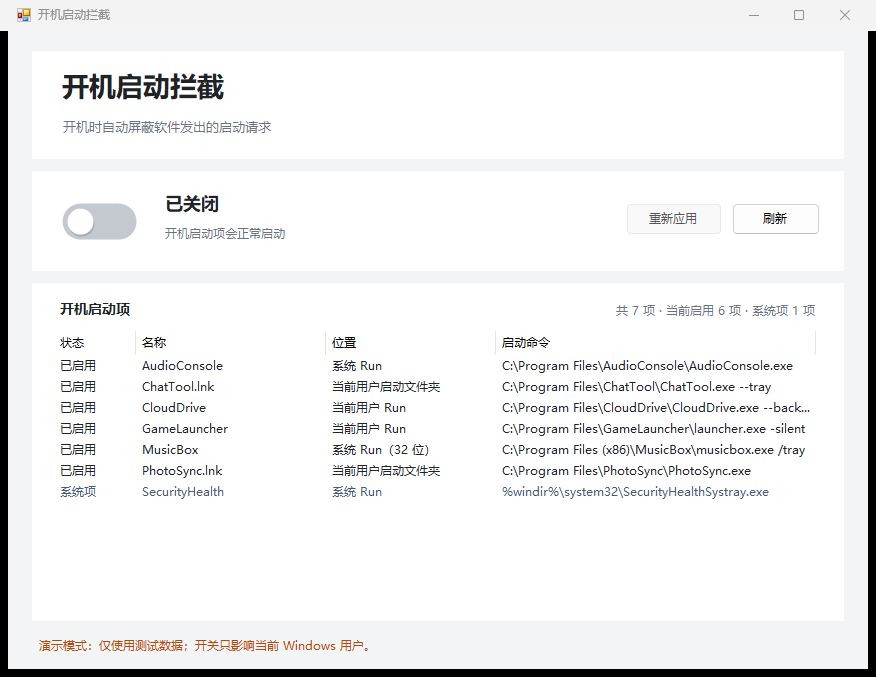
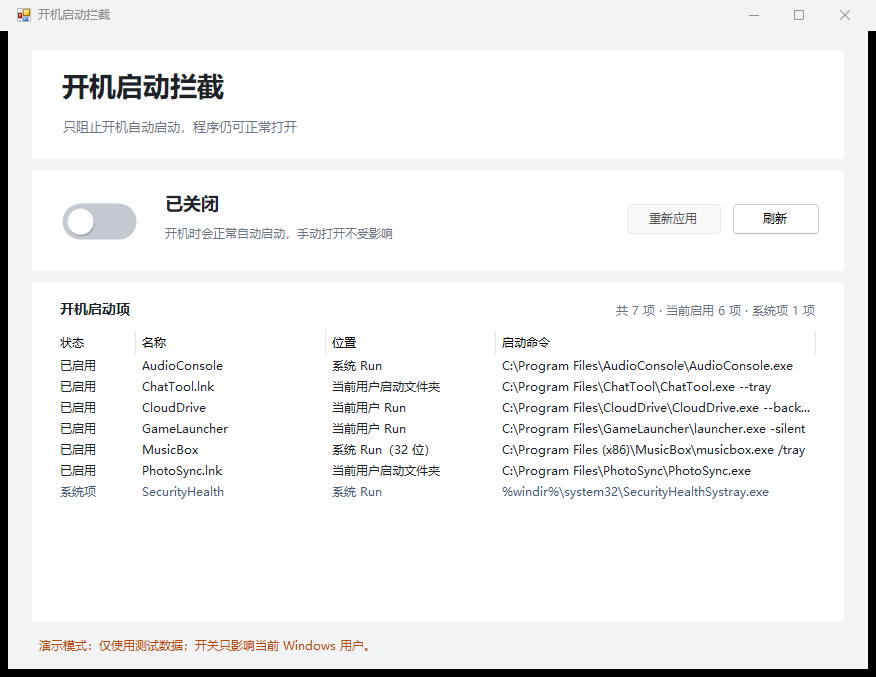
明确只阻止开机自动启动
界面和文档改为「已阻止自启 / 不影响手动打开」：本工具只取消开机自动启动，不禁用、删除或阻止程序运行，用户从桌面或开始菜单仍可正常打开。同步更新截图。

Changed region(s): [[0.0616, 0.1551, 0.339, 0.2171], [0.339, 0.3412, 0.4623, 0.3722], [0.2158, 0.3102, 0.3082, 0.3722]]

diff --git a/startup-guard/README.md b/startup-guard/README.md
@@ -4,6 +4,8 @@
 
 开启开关后，当前 Windows 用户下次登录时，所有已启用的第三方开机启动项都会被跳过（Windows 系统项默认保护）；关闭开关后，工具会精确恢复开启前的状态。工具不删除任何注册表启动项或启动文件夹快捷方式，也不需要管理员权限。
 
+**开关只取消「开机自动启动」，不会禁用或删除软件，也不会阻止你手动打开。** 被阻止自启的程序仍可从桌面、开始菜单或安装目录正常启动。
+
 ![开关关闭：启动项全部启用](docs/switch-off.png)
 
 ![开关开启：启动项全部屏蔽](docs/switch-on.png)
@@ -38,7 +40,7 @@ powershell -NoProfile -ExecutionPolicy Bypass -File .\install.ps1
 
 ## 开关行为
 
-**开启** 会遍历当前能看到的所有开机启动项，对其中处于启用状态、且不属于系统项的项写入当前用户的
+**开启** 只取消自动启动，不阻止程序运行。它会遍历当前能看到的所有开机启动项，对其中处于启用状态、且不属于系统项的项写入当前用户的
 `StartupApproved` 禁用标记（这正是任务管理器「禁用」按钮使用的机制），并把原始标记
 保存到状态文件：
 
@@ -48,7 +50,7 @@ powershell -NoProfile -ExecutionPolicy Bypass -File .\install.ps1
   点击「重新应用」即可补上。
 
 **关闭** 只恢复本工具记录过的项：原来没有标记的删除标记，原来有标记的写回原始字节。
-用户此前手动禁用的项保持禁用。
+用户此前手动禁用的项保持禁用。关闭后，这些程序会恢复随登录自动启动。
 
 **重新应用** 在开关开启时可用，用来处理后来新增或重新启用的启动项。
 
@@ -113,7 +115,7 @@ Realtek 音频面板、反作弊托盘等第三方程序不在系统保护范围
 
 | 状态 | 含义 |
 | --- | --- |
-| `Blocked` | 本工具屏蔽中；关闭开关会恢复 |
+| `Blocked` | 本工具已阻止其开机自启；程序仍可手动打开，关闭开关会恢复自动启动 |
 | `Enabled` | 当前会随登录启动 |
 | `Disabled` | 已被其他方式（任务管理器等）禁用，工具不会改动 |
 | `Excluded` | 命中排除列表，工具不会屏蔽 |

diff --git a/README.md b/README.md
@@ -2,7 +2,7 @@
 
 ## 开机启动拦截开关
 
-一个 Windows 小工具：用开关屏蔽开机时各软件自动发出的启动请求，关闭开关即可原样恢复。
+一个 Windows 小工具：用开关阻止开机时各软件自动发出的启动请求，关闭开关即可原样恢复。只阻止自动启动，软件仍可手动打开。
 
 - 安装到桌面：`powershell -ExecutionPolicy Bypass -File startup-guard\install.ps1`，之后双击桌面上的「开机启动拦截」。
 - 也可以直接双击 [`startup-guard/StartupGuard.cmd`](startup-guard/StartupGuard.cmd) 打开开关窗口。
